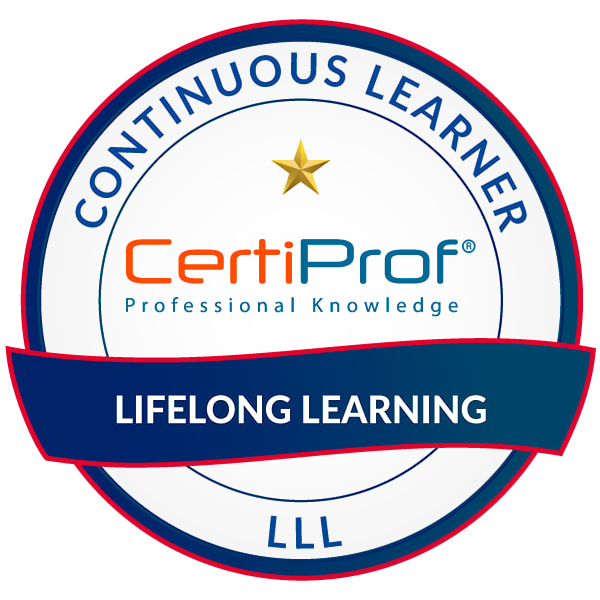
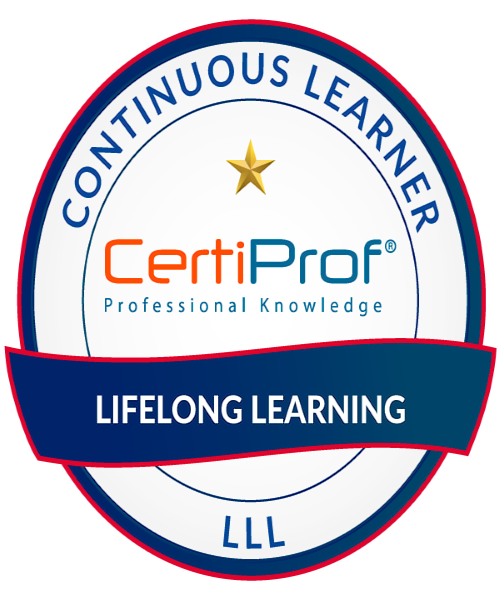
first commit

diff --git a/index.html b/index.html
@@ -707,7 +707,7 @@
                 </div>
 				<div class="card">
 					<div class="box">
-						<div class="text">the fundamentals of agility & Scrum</div>
+						<div class="text">Agility & Scrum</div>
 						<a target="_blank" href="images/certifs/0001.jpg">
 							<img src="images/certifs/0001.jpg" alt="">
 						</a>
@@ -720,7 +720,7 @@
 					<div class="box">
 						<div class="text">CertiProf badge</div>
 						<a target="_blank" href="images/certifs/lifelong-learning.png">
-							<img src="images/certifs/lifelong-learning.png" alt="">
+							<img style="width: 250px;" src="images/certifs/lifelong-learning.png" alt="">
 						</a>
 						<p><b>Level :</b>beginner</p>
 						<p><b>Date :</b>December 13 2021</p>
